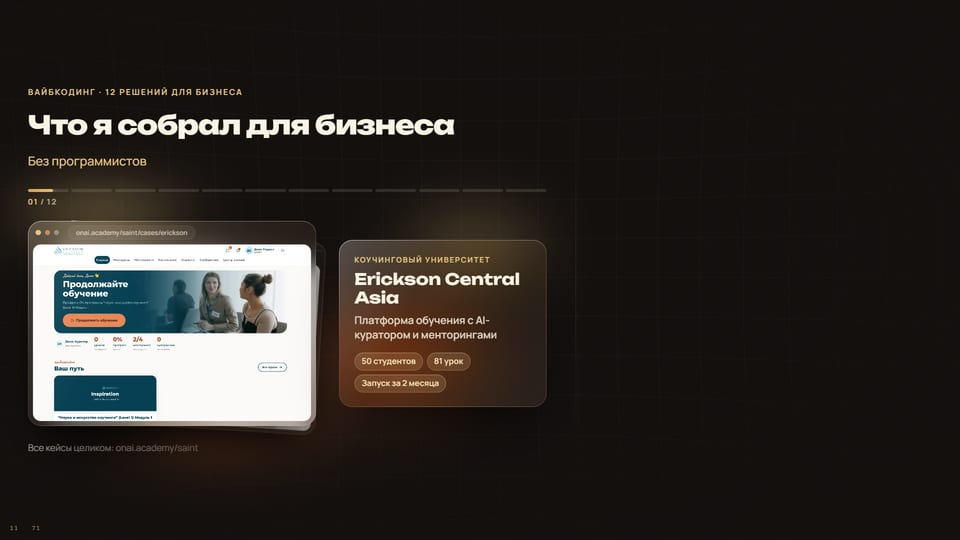
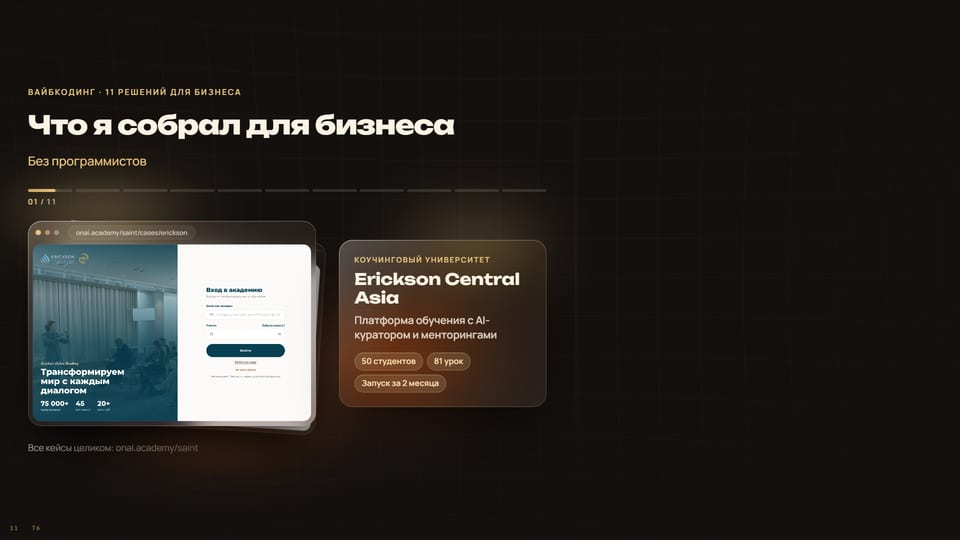
Deck: selling cover lead with a clear call to action, bigger Instagram screenshot on slide 9, case carousel uses the site's case images, ShowToday removed, texts aligned with the site

Changed region(s): [[0.0312, 0.4444, 0.3125, 0.8], [0.125, 0.1481, 0.25, 0.1778], [0.25, 0.4444, 0.2812, 0.4741]]

diff --git a/components/montage-deck/cases.ts b/components/montage-deck/cases.ts
@@ -1,13 +1,13 @@
 /**
- * Кейсы для карусели 08c «Что я собрал для бизнеса»: 12 кейсов, которые хаб кейсов разрешает показывать
- * (onai-workspace, ветка claude/quirky-carson-ei234s, business-cases/README.md, раздел «Что показывать», срез 05.10.2026).
- * Тексты сжаты из business-cases/site-texts/<slug>.md, цифры только из FACTS.md с пометкой «да» или «с оговоркой» (оговорка в чипе).
- * Порядок как советует хаб для эфира: платформы, AI-ассистенты, аналитика, продукты, прототип.
- * Правила хаба: без цен и бюджетов, без названий AI-поставщиков, кадр на демо-данных с пометкой «демо-данные».
- * Кадры 1600×1000 в public/montage/cases/; первые три — одобренные кадры сайта из projects/saint_landing/public/assets/cases.
+ * Кейсы для карусели 08c «Что я собрал для бизнеса»: 11 кейсов витрины onai.academy/saint (версия сайта 10, 06.10.2026).
+ * ShowToday убран с сайта и из презентации по решению Александра 06.10: работа не состоялась.
+ * Кадры — главные картинки кейсов с сайта (у сайта поле image: <имя>-large.webp, 2400×1500), уменьшены до 1600×1000 в public/montage/cases/.
+ * Тексты сжаты из карточек сайта (title, description, proof), цифры только проверенные: фактчек сайта 06.10 и FACTS.md хаба кейсов.
+ * Порядок как советует хаб для эфира: платформы, AI-ассистенты, аналитика, продукты.
+ * Правила хаба: без цен и бюджетов клиентов, без названий AI-поставщиков, кадр на демо-данных с пометкой «демо-данные».
  */
 
-/** Что показывать в окне браузера: скриншот, логотип клиента или карточку продукта (когда кадра нет, как на сайте). */
+/** Что показывать в окне браузера: скриншот, логотип клиента или карточку продукта (когда кадра нет). */
 export type CaseVisual =
   | { kind: "shot"; src: string; demo?: boolean }
   | { kind: "logo"; src: string; dark?: boolean; tags: string[] }
@@ -23,6 +23,9 @@ export type BizCase = {
   url: string; // страница кейса без https://
 };
 
+// ?v= — сброс кэша: prod-сервер отдаёт картинки из public с кэшем на 7 дней, а имена файлов при замене кадров не меняются
+const shot = (slug: string, demo = false): CaseVisual => ({ kind: "shot", src: `/montage/cases/${slug}.webp?v=1006`, demo });
+
 export const CASES: BizCase[] = [
   {
     slug: "erickson",
@@ -30,16 +33,16 @@ export const CASES: BizCase[] = [
     niche: "Коучинговый университет",
     oneLiner: "Платформа обучения с AI-куратором и менторингами",
     metric: "50 студентов · 81 урок · запуск за 2 месяца",
-    visual: { kind: "shot", src: "/montage/cases/erickson.webp" },
+    visual: shot("erickson"),
     url: "onai.academy/saint/cases/erickson",
   },
   {
     slug: "the-one-system",
     title: "The One System",
     niche: "Бизнес-школа, Алматы",
-    oneLiner: "Своя платформа обучения с AI за 9 недель",
+    oneLiner: "Платформа обучения для бизнес-школы за 9 недель",
     metric: "78 экранов · 3 роли · 2 языка",
-    visual: { kind: "shot", src: "/montage/cases/the-one-system.webp" },
+    visual: shot("the-one-system"),
     url: "onai.academy/saint/cases/the-one-system",
   },
   {
@@ -49,99 +52,87 @@ export const CASES: BizCase[] = [
     oneLiner: "AI-наставник отвечает ученикам по каждому уроку",
     // 900+ на платформе со слов Александра 05.10.2026 (318 в FACTS — только с действующим доступом); всего выпускников 1000+ вместе с Discord, это на слайде 08
     metric: "900+ учеников · 113 уроков · 595 вопросов наставнику",
-    visual: { kind: "shot", src: "/montage/cases/onai-academy.webp" },
+    visual: shot("onai-academy"),
     url: "onai.academy/saint/cases/onai-academy",
   },
   {
-    // site-texts/ai-assistant.md, cases/instagram-bot-saint4ai/FACTS.md: срез базы ассистента на 04.10.2026, работает с 06.09.2026
+    // карточка сайта ai-assistant; цифры — срез базы ассистента на 04.10.2026, работает с 06.09.2026
     slug: "ai-assistant",
     title: "AI-ассистент",
     niche: "Свой продукт · Instagram",
     oneLiner: "Комментарий под роликом превращается в заявку",
     metric: "2 117 человек получили материал · 66 кодовых слов",
-    visual: { kind: "card", icon: "lg-i-chatkey", label: "Слово → директ → заявка", tags: ["Кодовые слова", "Ответы в директе", "Заявки в Telegram"] },
+    visual: shot("ai-assistant", true),
     url: "onai.academy/saint/cases/ai-assistant",
   },
   {
-    // site-texts/iqra.md: цифр результата нет, школа их не подтвердила; логотип logos/iqra.svg.
-    // Дашборд: Александр 06.10.2026 «по CRM мы делали dashboard, был репозиторий»; IQRA — первый клиент в коде iqra-dashboard (cases/diskurs-whatsapp-analytics/FACTS.md)
+    // карточка сайта iqra: дашборд сквозной аналитики и AI-консультант; кадр — стенд на вымышленных данных
     slug: "iqra",
     title: "IQRA",
     niche: "Школа казахского языка",
-    oneLiner: "AI-консультант в чате и дашборд по заявкам из CRM",
-    metric: "Запись на пробный урок в чате · дашборд на данных AmoCRM",
-    visual: { kind: "logo", src: "/montage/cases/iqra-logo.svg", tags: ["AI-консультант", "Дашборд", "AmoCRM"] },
+    oneLiner: "Видно, какое объявление приводит учеников",
+    metric: "Реклама, заявки и продажи в AmoCRM · запись на урок в чате",
+    visual: shot("iqra", true),
     url: "onai.academy/saint/cases/iqra",
   },
   {
-    // site-texts/diskurs.md: дашборд нагрузки в статусе пилота; логотип logos/diskurs.png белый, только на тёмном
+    // карточка сайта diskurs: сквозная аналитика с WhatsApp для клиентов агентства плюс AI-менеджер; кадр — стенд на вымышленных данных
     slug: "diskurs",
     title: "Diskurs",
     niche: "Маркетинговое агентство",
-    oneLiner: "AI-менеджер в чате и дашборд нагрузки команды",
-    metric: "2 решения для одного агентства · дашборд в пилоте",
-    visual: { kind: "logo", src: "/montage/cases/diskurs-logo.png", dark: true, tags: ["AI-менеджер", "Дашборд нагрузки"] },
+    oneLiner: "Клиенты агентства видят, какая реклама доходит до продажи",
+    metric: "Сквозная аналитика с WhatsApp · AI-менеджер для агентства",
+    visual: shot("diskurs", true),
     url: "onai.academy/saint/cases/diskurs",
   },
   {
-    // site-texts/whatsapp-analytics.md. Цифры 7% → 55% и 141 из 141 не ставить: по FACTS.md это аудит клиента AT Academy, без его согласия нельзя
+    // карточка сайта whatsapp-analytics. Цифры 7% → 55% и 141 из 141 не ставить: аудит клиента AT Academy, без его согласия нельзя
     slug: "whatsapp-analytics",
     title: "Сквозная аналитика WhatsApp",
-    niche: "Клиенты агентства Diskurs",
-    oneLiner: "Видно, какое объявление привело клиента из WhatsApp",
-    metric: "Реклама, WhatsApp и CRM в одном отчёте · в Telegram в 8:00",
-    visual: { kind: "card", icon: "lg-i-laptopcoins", label: "Клик → диалог → сделка", tags: ["Реклама", "WhatsApp", "CRM", "Отчёт в 8:00"] },
+    niche: "Решение onAI для рекламы в WhatsApp",
+    oneLiner: "Заявка из WhatsApp связана с рекламой и сделкой",
+    metric: "Реклама → WhatsApp → CRM · отчёт в Telegram в 8:00",
+    visual: shot("whatsapp-analytics", true),
     url: "onai.academy/saint/cases/whatsapp-analytics",
   },
   {
-    // cases/ai-targetolog/FACTS.md, только строки «да»; цифры клиентов и «60+ клиентов» без выгрузки не ставить, цен по правилу хаба нет.
-    // Кадр — публичный лендинг app.aoneagency.kz, блок «Как работает»
+    // cases/ai-targetolog/FACTS.md, только строки «да»; цифры клиентов и «60+ клиентов» без выгрузки не ставить. Кадр сайта — демо-данные
     slug: "ai-targetolog",
     title: "AI-Таргетолог",
     niche: "Свой продукт · реклама FB и IG",
     oneLiner: "Видно, какая реклама приносит продажи",
     metric: "Собрал за 3 месяца · отчёт в Telegram каждое утро",
-    visual: { kind: "shot", src: "/montage/cases/ai-targetolog.webp" },
+    visual: shot("ai-targetolog", true),
     url: "onai.academy/saint/cases/ai-targetolog",
   },
   {
-    // site-texts/omnidash.md: число клиентов не выгружено; кадр — публичный лендинг omnidash.kz, блок подключений
+    // карточка сайта omnidash: пилот, кадр отчёта по таргету на вымышленных данных
     slug: "omnidash",
     title: "OmniDash",
-    niche: "Свой продукт · сквозная аналитика",
+    niche: "Решение onAI для предпринимателей",
     oneLiner: "Реклама и продажи на одном экране",
-    metric: "9 подключений · 5 моделей атрибуции · пилот",
-    visual: { kind: "shot", src: "/montage/cases/omnidash.webp" },
+    metric: "Расход, выручка и ROMI по кампаниям · пилот",
+    visual: shot("omnidash", true),
     url: "onai.academy/saint/cases/omnidash",
   },
   {
-    // site-texts/callvision.md: интерфейс на демо-данных (имена вымышлены), движок проверен на звонках школы onAI
+    // карточка сайта callvision: демо интерфейса на примерных данных
     slug: "callvision",
     title: "CallVision AI",
     niche: "Отделы продаж",
-    oneLiner: "AI-РОП оценивает каждый звонок",
-    metric: "10 критериев · до 3 цитат из разговора на критерий",
-    visual: { kind: "shot", src: "/montage/cases/callvision.webp", demo: true },
+    oneLiner: "Оценка каждого звонка отдела продаж",
+    metric: "10 пунктов чек-листа · цитаты из разговора",
+    visual: shot("callvision", true),
     url: "onai.academy/saint/cases/callvision",
   },
   {
-    // site-texts/voiceseller.md и фактчек сайта 06.10: собран, чтобы позвонить, проверен на тестовой заявке без телефонии; звонков как факта нет
+    // карточка сайта voiceseller: собран, чтобы позвонить по заявке, проверен на тестовой заявке; кадр — макет на демо-данных
     slug: "voiceseller",
     title: "VoiceSeller",
-    niche: "Свой продукт · звонки лидам",
-    oneLiner: "Голосовой менеджер на казахском и русском",
-    metric: "2 языка · проверен на тестовой заявке",
-    visual: { kind: "card", icon: "lg-i-phonearrow", label: "Заявка → звонок → запись", tags: ["Казахский", "Русский", "AmoCRM"] },
+    niche: "Решение onAI для звонков по заявкам",
+    oneLiner: "Звонок по свежей заявке через 7 минут",
+    metric: "Казахский и русский · сценарий и ответы на возражения",
+    visual: shot("voiceseller", true),
     url: "onai.academy/saint/cases/voiceseller",
-  },
-  {
-    // site-texts/showtoday.md: прототип на демо-данных, январь 2026; кадр обрезан сверху без значка внизу (правило хаба)
-    slug: "showtoday",
-    title: "ShowToday",
-    niche: "Агентство праздников",
-    oneLiner: "Прототип показал систему до разработки",
-    metric: "8 метрик переписки · 10 экранов · из него вырос OmniDash",
-    visual: { kind: "shot", src: "/montage/cases/showtoday.webp", demo: true },
-    url: "onai.academy/saint/cases/showtoday",
   },
 ];

diff --git a/components/montage-deck/slides/M_Cover.tsx b/components/montage-deck/slides/M_Cover.tsx
@@ -33,10 +33,23 @@ export function M_Cover() {
         <Rise><Logo night height="1.8cqw" style={{ marginBottom: "3cqw" }} /></Rise>
         <Rise delay={STEP}><Kicker color={T.gold}>Эфир · Vibe Production</Kicker></Rise>
         <Rise delay={STEP * 2}><H size="4.6cqw" color={T.nightText} style={{ lineHeight: 1.04 }}>Рилсы без знаний <Em night>монтажа</Em></H></Rise>
-        <Rise delay={STEP * 3}><Lead color={T.nightMuted} style={{ marginTop: "1.8cqw", fontSize: "1.35cqw" }}>Монтирует ИИ-агент по вашему голосу. Презентации и сайты — тоже ИИ.</Lead></Rise>
-        <Rise delay={STEP * 4} className="flex flex-wrap gap-[0.6cqw]" style={{ marginTop: "2.4cqw" }}>
+        {/* 06.10 Александр: продающая подача, особенно про презентации и сайты */}
+        <Rise delay={STEP * 3}><Lead color={T.nightMuted} style={{ marginTop: "1.8cqw", fontSize: "1.35cqw" }}>
+          <span style={{ color: T.nightText }}>Рилс, презентация и сайт за один вечер.</span> Делает ИИ-агент по вашему голосу, без монтажёра, дизайнера и программиста.
+        </Lead></Rise>
+        <Rise delay={STEP * 4} className="flex flex-wrap gap-[0.6cqw]" style={{ marginTop: "2cqw" }}>
           {/* без конкретной даты: Александр 06.10 «просто сегодня в 20:00» */}
           <Chip gold>Сегодня в 20:00</Chip><Chip night>3 практики за вечер</Chip>
+        </Rise>
+        {/* Призыв к действию, пока зрители подключаются: что сделать сейчас и зачем оставаться до конца (гайды — слайд 58, скидка — 57g) */}
+        <Rise delay={STEP * 5} style={{ marginTop: "1.6cqw", borderRadius: 18, padding: "1cqw 1.2cqw", background: "rgba(251,243,228,.06)", border: `1px solid ${T.nightLine}`,
+          backdropFilter: "blur(12px)", WebkitBackdropFilter: "blur(12px)" }}>
+          <div style={{ fontFamily: "var(--font-manrope)", fontWeight: 700, fontSize: "0.78cqw", letterSpacing: ".14em", textTransform: "uppercase", color: T.gold }}>Что сделать сейчас</div>
+          {["Напишите в чат «+» и свою нишу", "Останьтесь до конца: 3 гайда и скидка участникам эфира"].map((t, i) => (
+            <div key={t} className="flex items-baseline" style={{ gap: "0.7cqw", marginTop: "0.55cqw", fontFamily: "var(--font-manrope)", fontWeight: 600, fontSize: "1.05cqw", color: T.nightText }}>
+              <span style={{ fontFamily: "var(--font-unbounded)", fontWeight: 700, color: T.gold }}>{i + 1}</span>{t}
+            </div>
+          ))}
         </Rise>
       </div>
     </SlideLayout>

diff --git a/components/montage-deck/slides/start.tsx b/components/montage-deck/slides/start.tsx
@@ -161,9 +161,10 @@ export function M_About() {
       <Rise delay={STEP}><H size="3.4cqw">Александр</H></Rise>
       {/* Позиционирование — слова Александра 05.10: «разработчик без знаний программирования, разрабатываю IT-решения для бизнеса» */}
       <Rise delay={STEP * 2}><Lead style={{ marginTop: "0.8cqw", maxWidth: "29cqw" }}>Разработчик без знаний программирования: собираю IT-решения для бизнеса с <span style={{ whiteSpace: "nowrap" }}>ИИ-агентами</span>. Основатель onAI Academy.</Lead></Rise>
-      {/* Скрин профиля Instagram без рамки телефона, со скруглёнными углами (правка Александра 05.10) */}
+      {/* Скрин профиля Instagram без рамки телефона, со скруглёнными углами (правка Александра 05.10).
+          06.10: крупнее, до линии-разделителя зоны камеры — съедаем правый отступ колонки SlideLayout (56px) */}
       <motion.div initial={{ opacity: 0, y: "1.6cqw", scale: 0.97 }} animate={{ opacity: 1, y: "0cqw", scale: 1 }} transition={{ delay: at(3, 0.2), duration: 0.55, ease: EASE }}
-        style={{ marginTop: "1.6cqw", maxWidth: "29cqw" }}>
+        style={{ marginTop: "1.6cqw", width: "calc(100% + 56px - 0.8cqw)", maxWidth: "none" }}>
         <img src="/montage/profile.jpg" alt="Профиль saint4ai в Instagram" draggable={false}
           style={{ display: "block", width: "100%", height: "auto", borderRadius: "1.2cqw", border: `1px solid ${T.line}`, boxShadow: T.shadow, background: T.paper }} />
       </motion.div>
